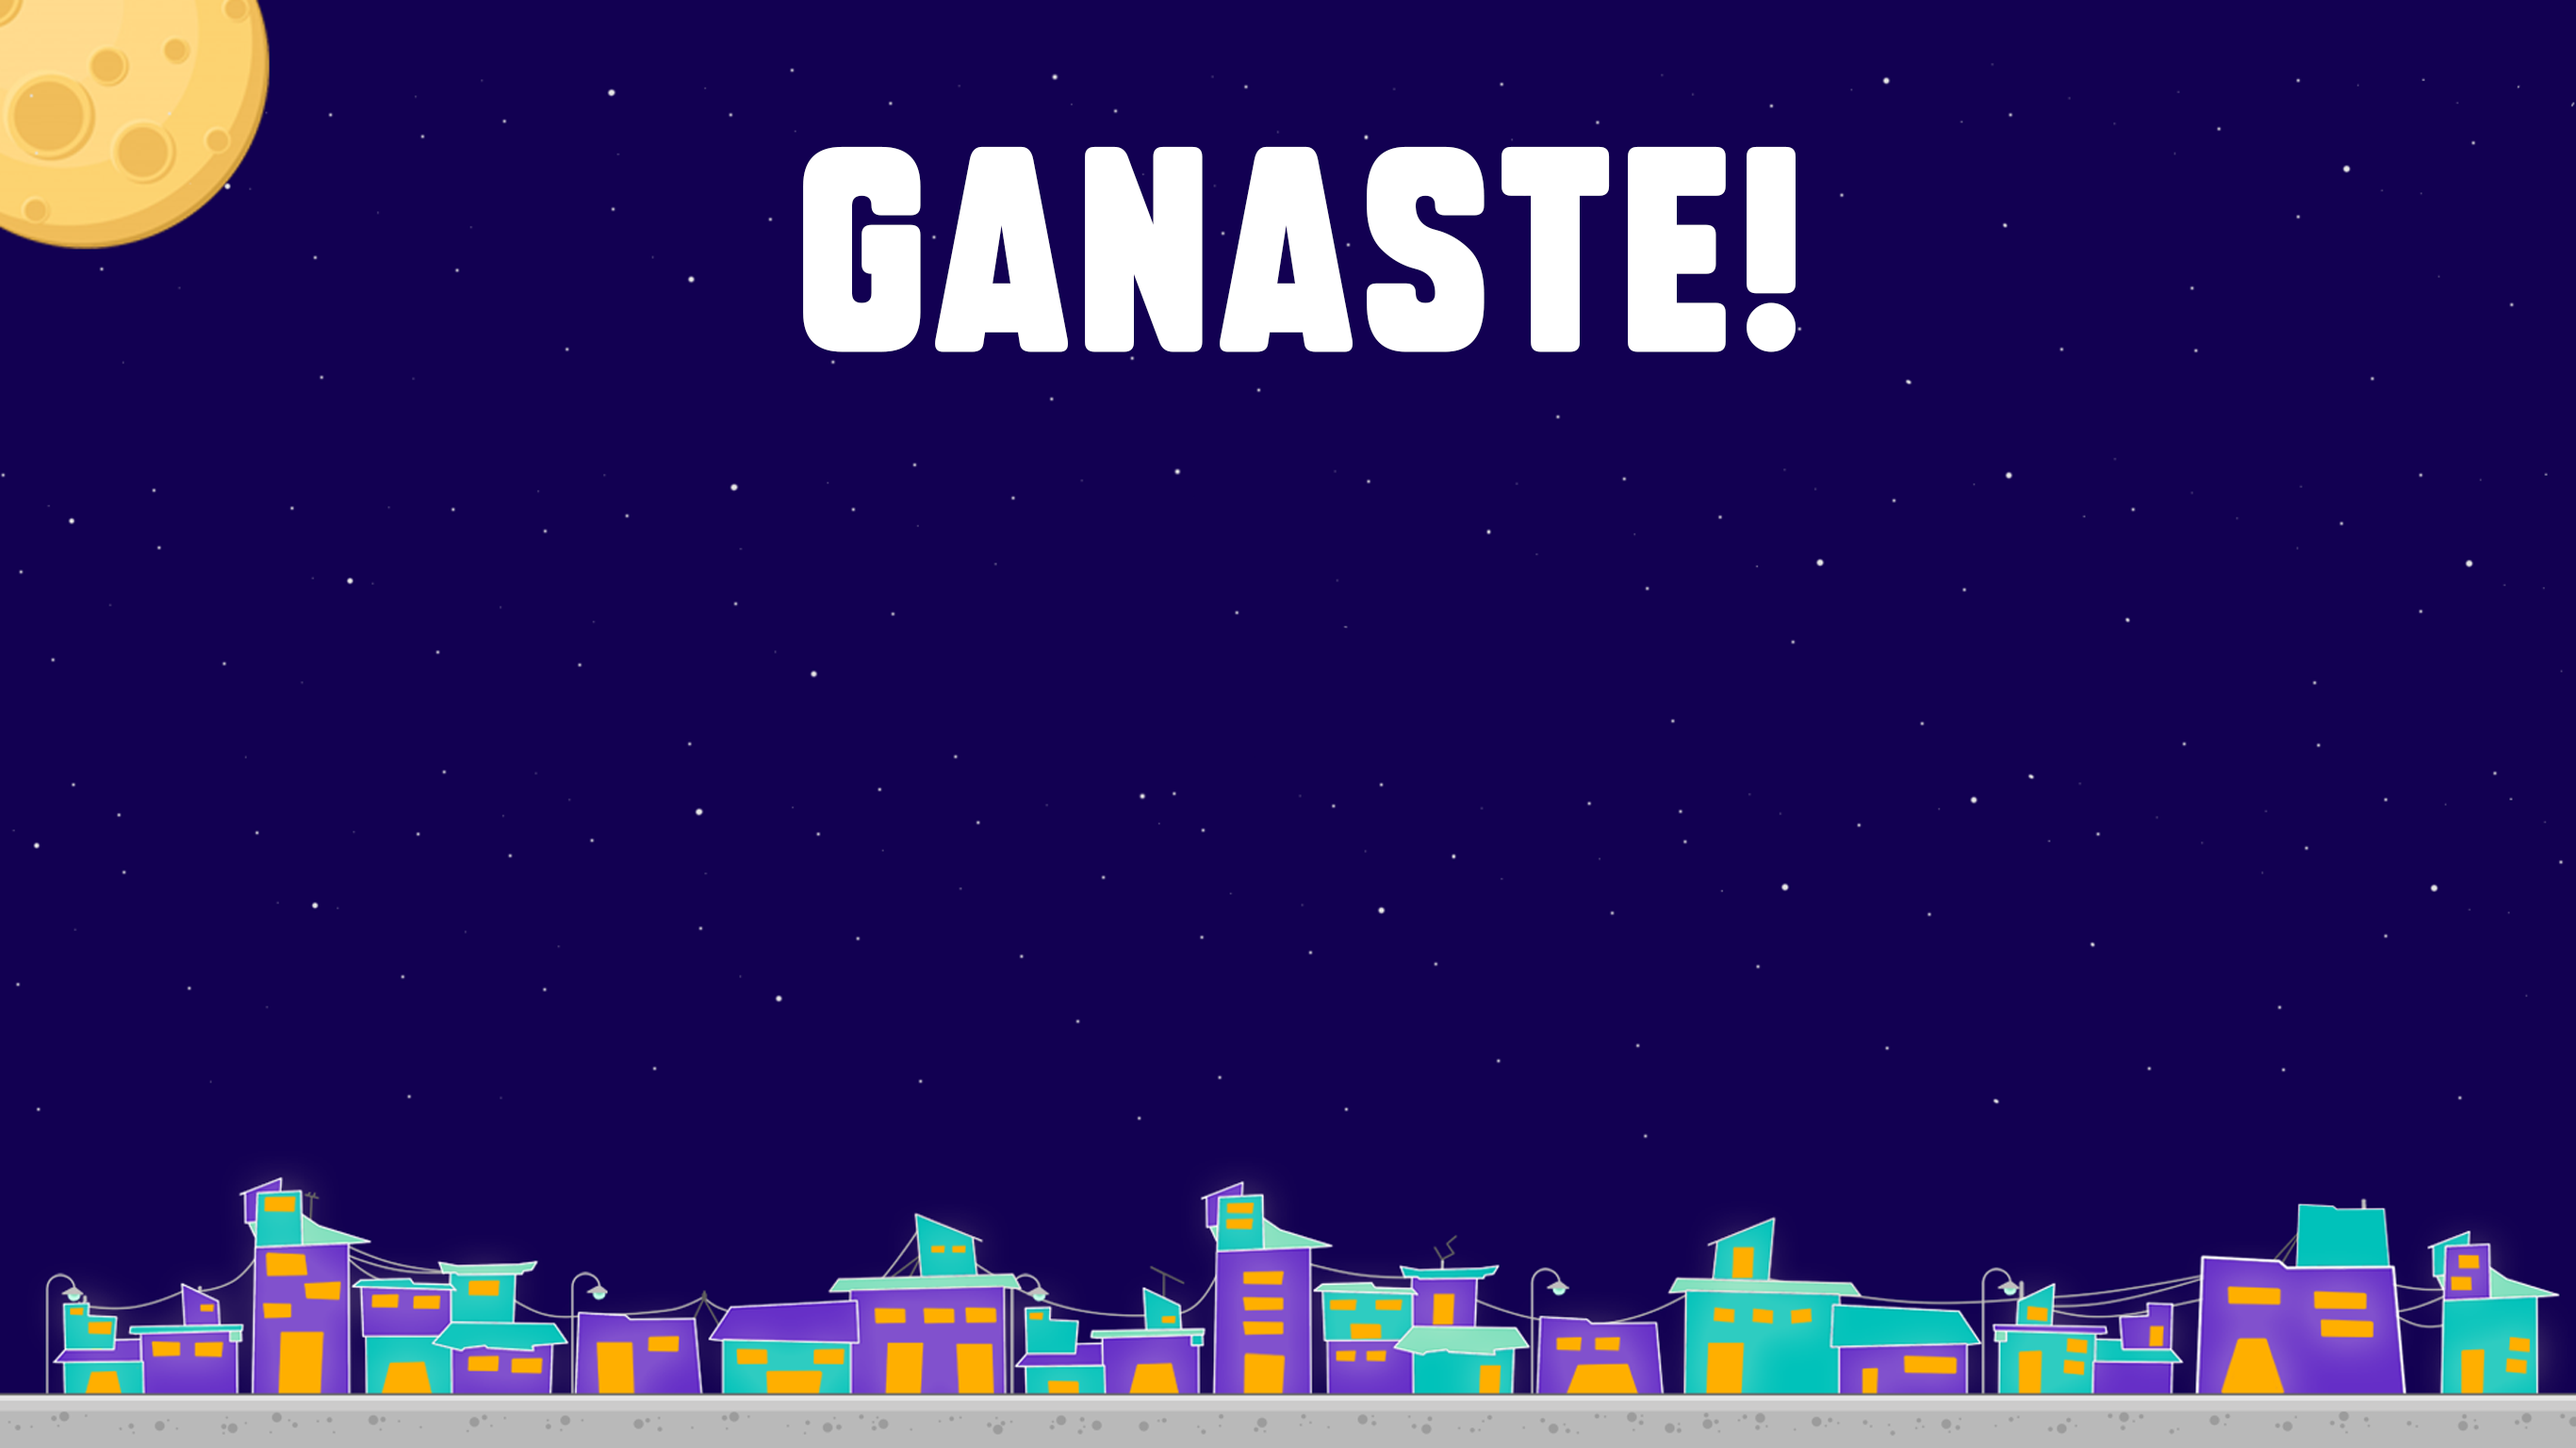
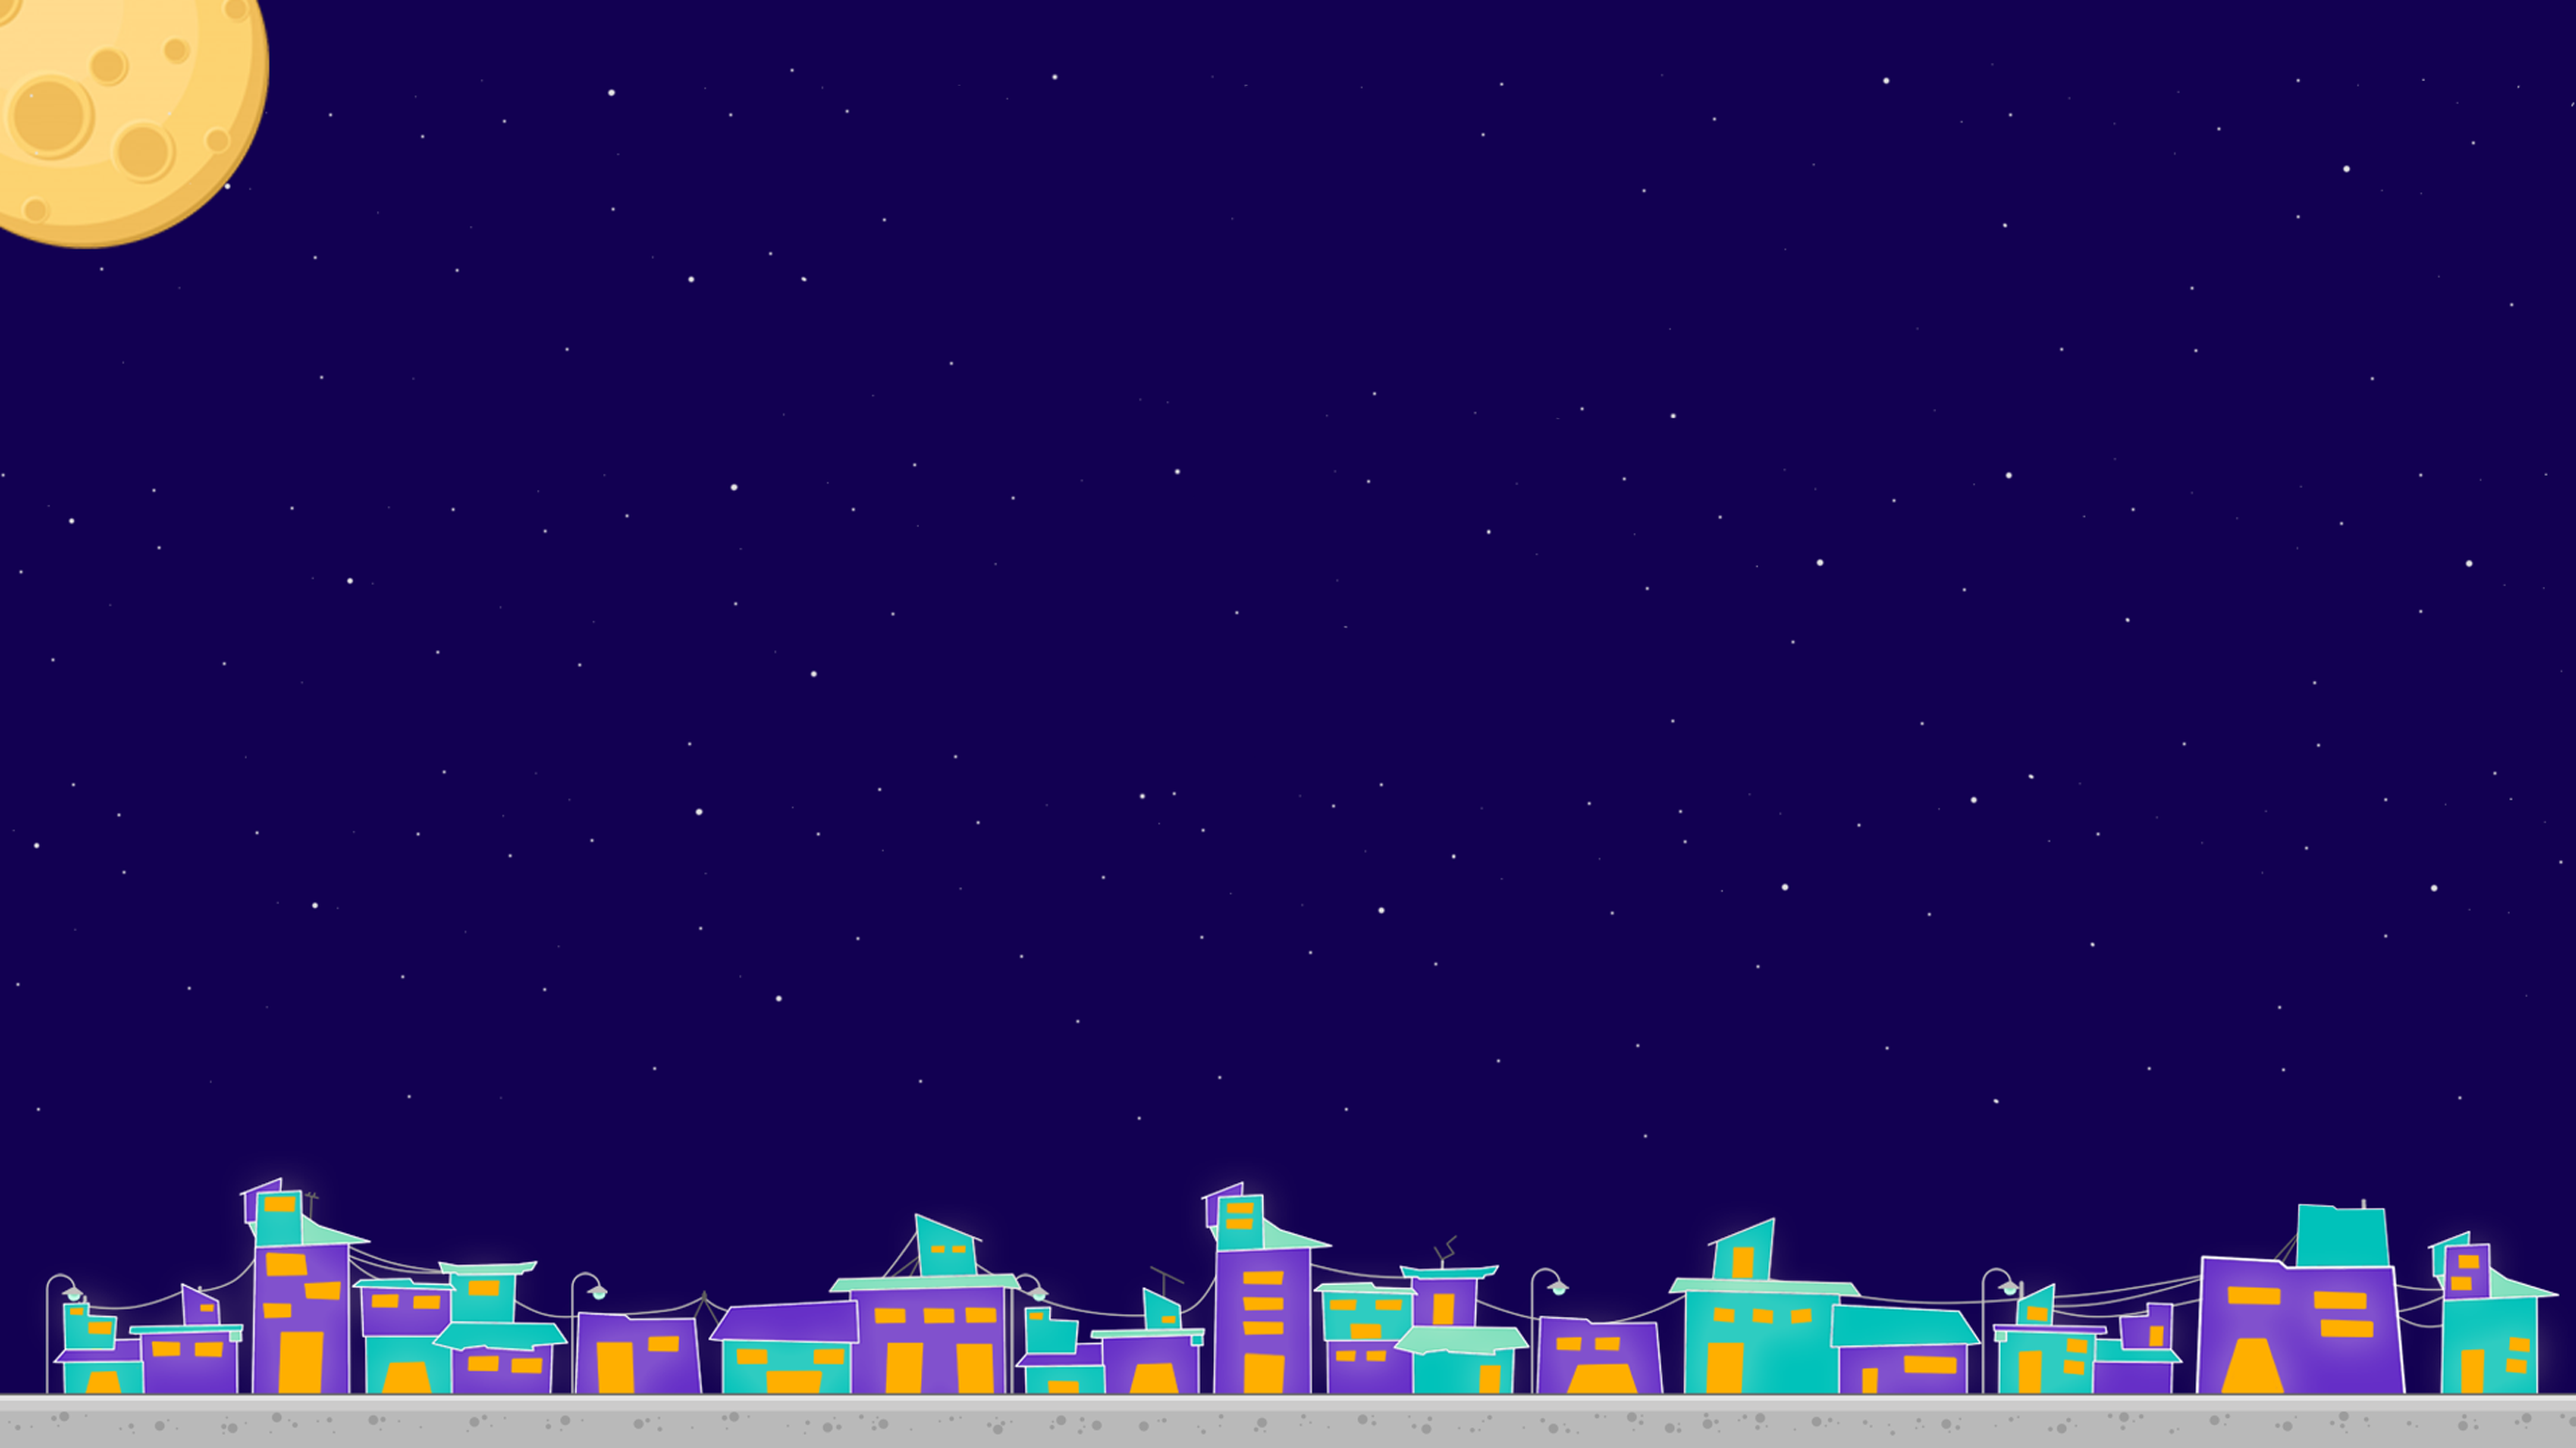
BOTONES - TIEMPO
Cambios Botones en texto - Assets - Intento de tiempo

Changed region(s): [[0.311, 0.0937, 0.7153, 0.2498]]

diff --git a/src/scenes/Juego.js b/src/scenes/Juego.js
@@ -48,26 +48,6 @@ export default class Juego extends Phaser.Scene {
       this.add.image(800, 900, "FondoNivelDos").setOrigin(0).setScale(0.5);
     }
 
-    //ENEMIGOS
-
-    this.enemigos = this.physics.add.staticGroup();
-    this.enemigos.create(1000, 648, "pinches1").setScale(0.5);
-    this.enemigos.create(2400, 648, "pinches1").setScale(0.5);
-    this.enemigos.create(3500, 648, "pinches1").setScale(0.5);
-    this.enemigos.create(3600, 648, "pinches3").setScale(0.5);
-    this.enemigos.create(4400, 648, "pinches2").setScale(0.5);
-    this.enemigos.create(5300, 648, "pinches1").setScale(0.5);
-    this.enemigos.create(5800, 648, "pinches1").setScale(0.5);
-    this.enemigos.create(6300, 648, "pinches2").setScale(0.5);
-    this.enemigos.create(6800, 648, "pinches1").setScale(0.5);
-    this.enemigos.create(8100, 648, "pinches1").setScale(0.5);
-    this.enemigos.create(8300, 648, "pinches1").setScale(0.5);
-    this.enemigos.create(9700, 648, "pinches2").setScale(0.5);
-
-    this.enemigos.refresh();
-
-    this.physics.add.collider(this.enemigos, this.platform);
-
     //PLATAFORMAS
 
     this.platform = this.physics.add.staticGroup();
@@ -110,7 +90,7 @@ export default class Juego extends Phaser.Scene {
 
     this.add.image(1250, 720, "teclas").setScale(0.5).setScrollFactor(0);
     this.add.image(1250, 50, "cronometro").setScale(0.4).setScrollFactor(0);
-    this.add.image(80, 720, "corazon").setScale(0.9).setScrollFactor(0);
+  
 
     //PERSONAJE
 
@@ -167,30 +147,10 @@ export default class Juego extends Phaser.Scene {
       this
     );
 
-    //NIVEL 2
-    if (this.nivel == 2) {
-      console.log("Nivel 2");
-      this.enemigos = this.physics.add.group();
-      this.enemigos.create(2000, 100, "pinches1").setScale(0.7);
-      this.enemigos.create(2500, 300, "pinches2").setScale(0.7);
-      this.enemigos.create(3500, 300, "pinches2").setScale(0.7);
-      this.enemigos.create(3600, 100, "pinches2").setScale(0.7);
-      this.enemigos.create(4400, 300, "pinches2").setScale(0.7);
-      this.enemigos.create(5300, 200, "pinches2").setScale(0.7);
-      this.enemigos.create(5800, 500, "pinches2").setScale(0.7);
-      this.enemigos.create(6300, 300, "pinches2").setScale(0.7);
-      this.enemigos.create(6800, 100, "pinches2").setScale(0.7);
-      this.enemigos.create(8100, 100, "pinches2").setScale(0.7);
-      this.enemigos.create(8300, 300, "pinches3").setScale(0.7);
-      this.enemigos.create(9700, 500, "pinches2").setScale(0.7);
-    }
-
-    this.physics.add.collider(this.player, this.enemigos);
-
     //TIEMPO
 
     this.TiempoInicial = this.nivel == 1 ? 90 : 60;
-    console.log("tiempo inicial " + this.TiempoInicial);
+    console.log("tiempoinicial" + this.TiempoInicial);
 
     this.TimeEvent = this.time.addEvent({
       delay: 1000,
@@ -203,9 +163,6 @@ export default class Juego extends Phaser.Scene {
       this.scene.launch("ui");
     }
 
-    //VIDAS
-
-    console.log("vidas ");
   }
 
   update() {

diff --git a/src/scenes/Ganaste.js b/src/scenes/Ganaste.js
@@ -23,7 +23,7 @@ export default class Ganaste extends Phaser.Scene {
     });
 
     this.text = this.add
-      .text(700, 400, "SIGUIENTE", { font: "30px Arial" })
+      .text(550,370, "SIGUIENTE", { font: "130px Cocogoose" })
       .setScale(0.4);
 
     const botonmenu2 = this.add.image(700, 550, "BotonM").setScale(0.4);
@@ -31,17 +31,17 @@ export default class Ganaste extends Phaser.Scene {
     botonmenu2.on("pointerdown", () => this.scene.start("Menu"));
 
     this.text = this.add
-      .text(700, 550, "MENU", { font: "30px Arial" })
+      .text(599, 520, "MENU", { font: "150px Cocogoose" })
       .setScale(0.4);
 
-    this.add.image(0, 0, "ganaste").setOrigin(0).setScale(0.5);
-    const botonseguir = this.add.image(700, 500, "botonseguir").setScale(0.4);
-    botonseguir.setInteractive();
-    botonseguir.on("pointerdown", () => this.scene.start("MenuPrincipal"));
+  
+    botonsiguiente.setInteractive();
+    botonsiguiente.on("pointerdown", () => this.scene.start("MenuPrincipal"));
 
     this.text = this.add
-      .text(700, 500, "SEGUIR", { font: "30px Arial" })
-      .setScale(0.4);
+    .text(460, 100, "GANASTE", { font: "250px Cocogoose" })
+    .setScale(0.4);
+   
   }
   update() {}
 }

diff --git a/src/scenes/Tutorial.js b/src/scenes/Tutorial.js
@@ -13,18 +13,28 @@ export default class Tutorial extends Phaser.Scene {
     console.log("nivel ", this.nivel);
     this.add.image(0, 0, "FondoTuto").setOrigin(0).setScale(0.5);
     const botontuto = this.add
-      .image(500, 550, "BotonJ")
+      .image(610, 550, "BotonJ")
       .setOrigin(0)
-      .setScale(0.4);
+      .setScale(0.2);
     botontuto.setInteractive();
     botontuto.on("pointerdown", () =>
       this.scene.start("Juego", { nivel: this.nivel })
     );
 
     this.text = this.add
-      .text(500, 550, "JUGAR", { font: "50px Arial" })
+      .text(650, 560, "JUGAR", { font: "70px Cocogoose" })
+      .setScale(0.4);
+
+    this.text = this.add
+      .text(540, 100, "TUTORIAL", { font: "150px Cocogoose" })
+      .setScale(0.4);
+
+    this.text = this.add
+      .text(300, 400, "Utiliza las flechas y recolecta la cantidad de brillos necesarios para pasar al siguiente nivel", { font: "40px Cocogoose" })
       .setScale(0.4);
   }
+  
+  
 
   update() {}
 }

diff --git a/src/scenes/Creditos.js b/src/scenes/Creditos.js
@@ -7,13 +7,16 @@ export default class Creditos extends Phaser.Scene {
 
   create() {
     this.add.image(0, 0, "FondoCre").setOrigin(0).setScale(0.5);
-    var botonmenu = this.add.image(700, 650, "BotonM").setScale(0.4);
+    var botonmenu = this.add.image(700, 650, "BotonM").setScale(0.2);
     botonmenu.setInteractive();
     botonmenu.on("pointerdown", () => this.scene.start("MenuPrincipal"));
 
-    this.text = this.add
-      .text(700, 650, "MENÚ", { font: "100px Arial" })
-      .setScale(0.4);
+    this.text = this.add.text(650, 630, "MENÚ", { font: "70px Cocogoose" }) .setScale(0.4);
+
+    this.text = this.add.text(540, 150, "CREDITOS", { font: "150px Cocogoose" }) .setScale(0.4);
+
+    this.text = this.add.text(450, 300, "Arte y Programación", { font: "100px Cocogoose" }) .setScale(0.4);
+    this.text = this.add.text(570, 380, "Abril Pellegrinet", { font: "70px Cocogoose" }) .setScale(0.4);
   }
   update() {}
 }

diff --git a/src/scenes/UI.js b/src/scenes/UI.js
@@ -16,17 +16,14 @@ export default class UI extends Phaser.Scene {
       font: "40px",
     });
 
-    this.timeText = this.add.text(120, 50, "", {
-      font: "40px",
+    this.timeText = this.add.text(1200, 40, "tiempo", {
+      font: "30px",
     });
 
-    this.lifeText = this.add.text(120, 50, "", {
-      font: "40px",
-    });
-
+    
     events.on("point-changed", this.handlePointChanged, this);
     events.on("time-changed", this.handleTimeChanged, this);
-    events.on("life-changed", this.handleLifeChanged, this);
+    
   }
 
   handlePointChanged(points) {
@@ -37,7 +34,5 @@ export default class UI extends Phaser.Scene {
   handleTimeChanged(time) {
     this.timeText.setText(" " + time);
   }
-  handleLifeChanged(VidaJugador) {
-    this.timeText.setText(VidaJugador + "/3");
-  }
+  
 }

diff --git a/src/scenes/MenuPrincipal.js b/src/scenes/MenuPrincipal.js
@@ -14,15 +14,15 @@ export default class MenuPrincipal extends Phaser.Scene {
     );
 
     this.text = this.add
-      .text(700, 400, "JUGAR", { font: "30px Arial" })
-      .setScale(0.2);
+      .text(650, 382, "JUGAR", { font: "70px Cocogoose" })
+      .setScale(0.4);
 
     const botoninfo = this.add.image(700, 550, "BotonI").setScale(0.2);
     botoninfo.setInteractive();
     botoninfo.on("pointerdown", () => this.scene.start("Creditos"));
 
     this.text = this.add
-      .text(700, 550, "CREDITOS", { font: "30px Arial" })
+      .text(628, 535, "CREDITOS", { font: "70px Cocogoose" })
       .setScale(0.4);
   }
   update() {}

diff --git a/src/scenes/Perdiste.js b/src/scenes/Perdiste.js
@@ -22,7 +22,17 @@ export default class Perdiste extends Phaser.Scene {
     botonmenucito.setInteractive();
     botonmenucito.on("pointerdown", () => this.scene.start("MenuPrincipal"));
 
-    this.text = this.add.text(700, 550, "MENU",{font: "30px Arial" }).setScale(0.4); 
+    this.text = this.add.text(599, 520, "MENU", { font: "150px Cocogoose" }) .setScale(0.4);
+
+    this.text = this.add
+    .text(460, 100, "PERDISTE", { font: "250px Cocogoose" })
+    .setScale(0.4);
+
+    this.text = this.add
+    .text(550,370, "REINICIAR", { font: "130px Cocogoose" })
+    .setScale(0.4);
+
+   
   }
   update() {}
 }

diff --git a/src/scenes/Preload.js b/src/scenes/Preload.js
@@ -20,7 +20,6 @@ export default class Preload extends Phaser.Scene {
     this.load.image("uipower", "./assets/uibrillos.png");
     this.load.image("pinches2", "./assets/enemigos2.png");
     this.load.image("pinches3", "./assets/enemigos3.png");
-    this.load.image("corazon", "./assets/vida.png");
     this.load.image("cronometro", "./assets/Tiempo.png");
     this.load.image("infla", "./assets/inflador.png");
     this.load.image("banderita", "./assets/bandera.png");
